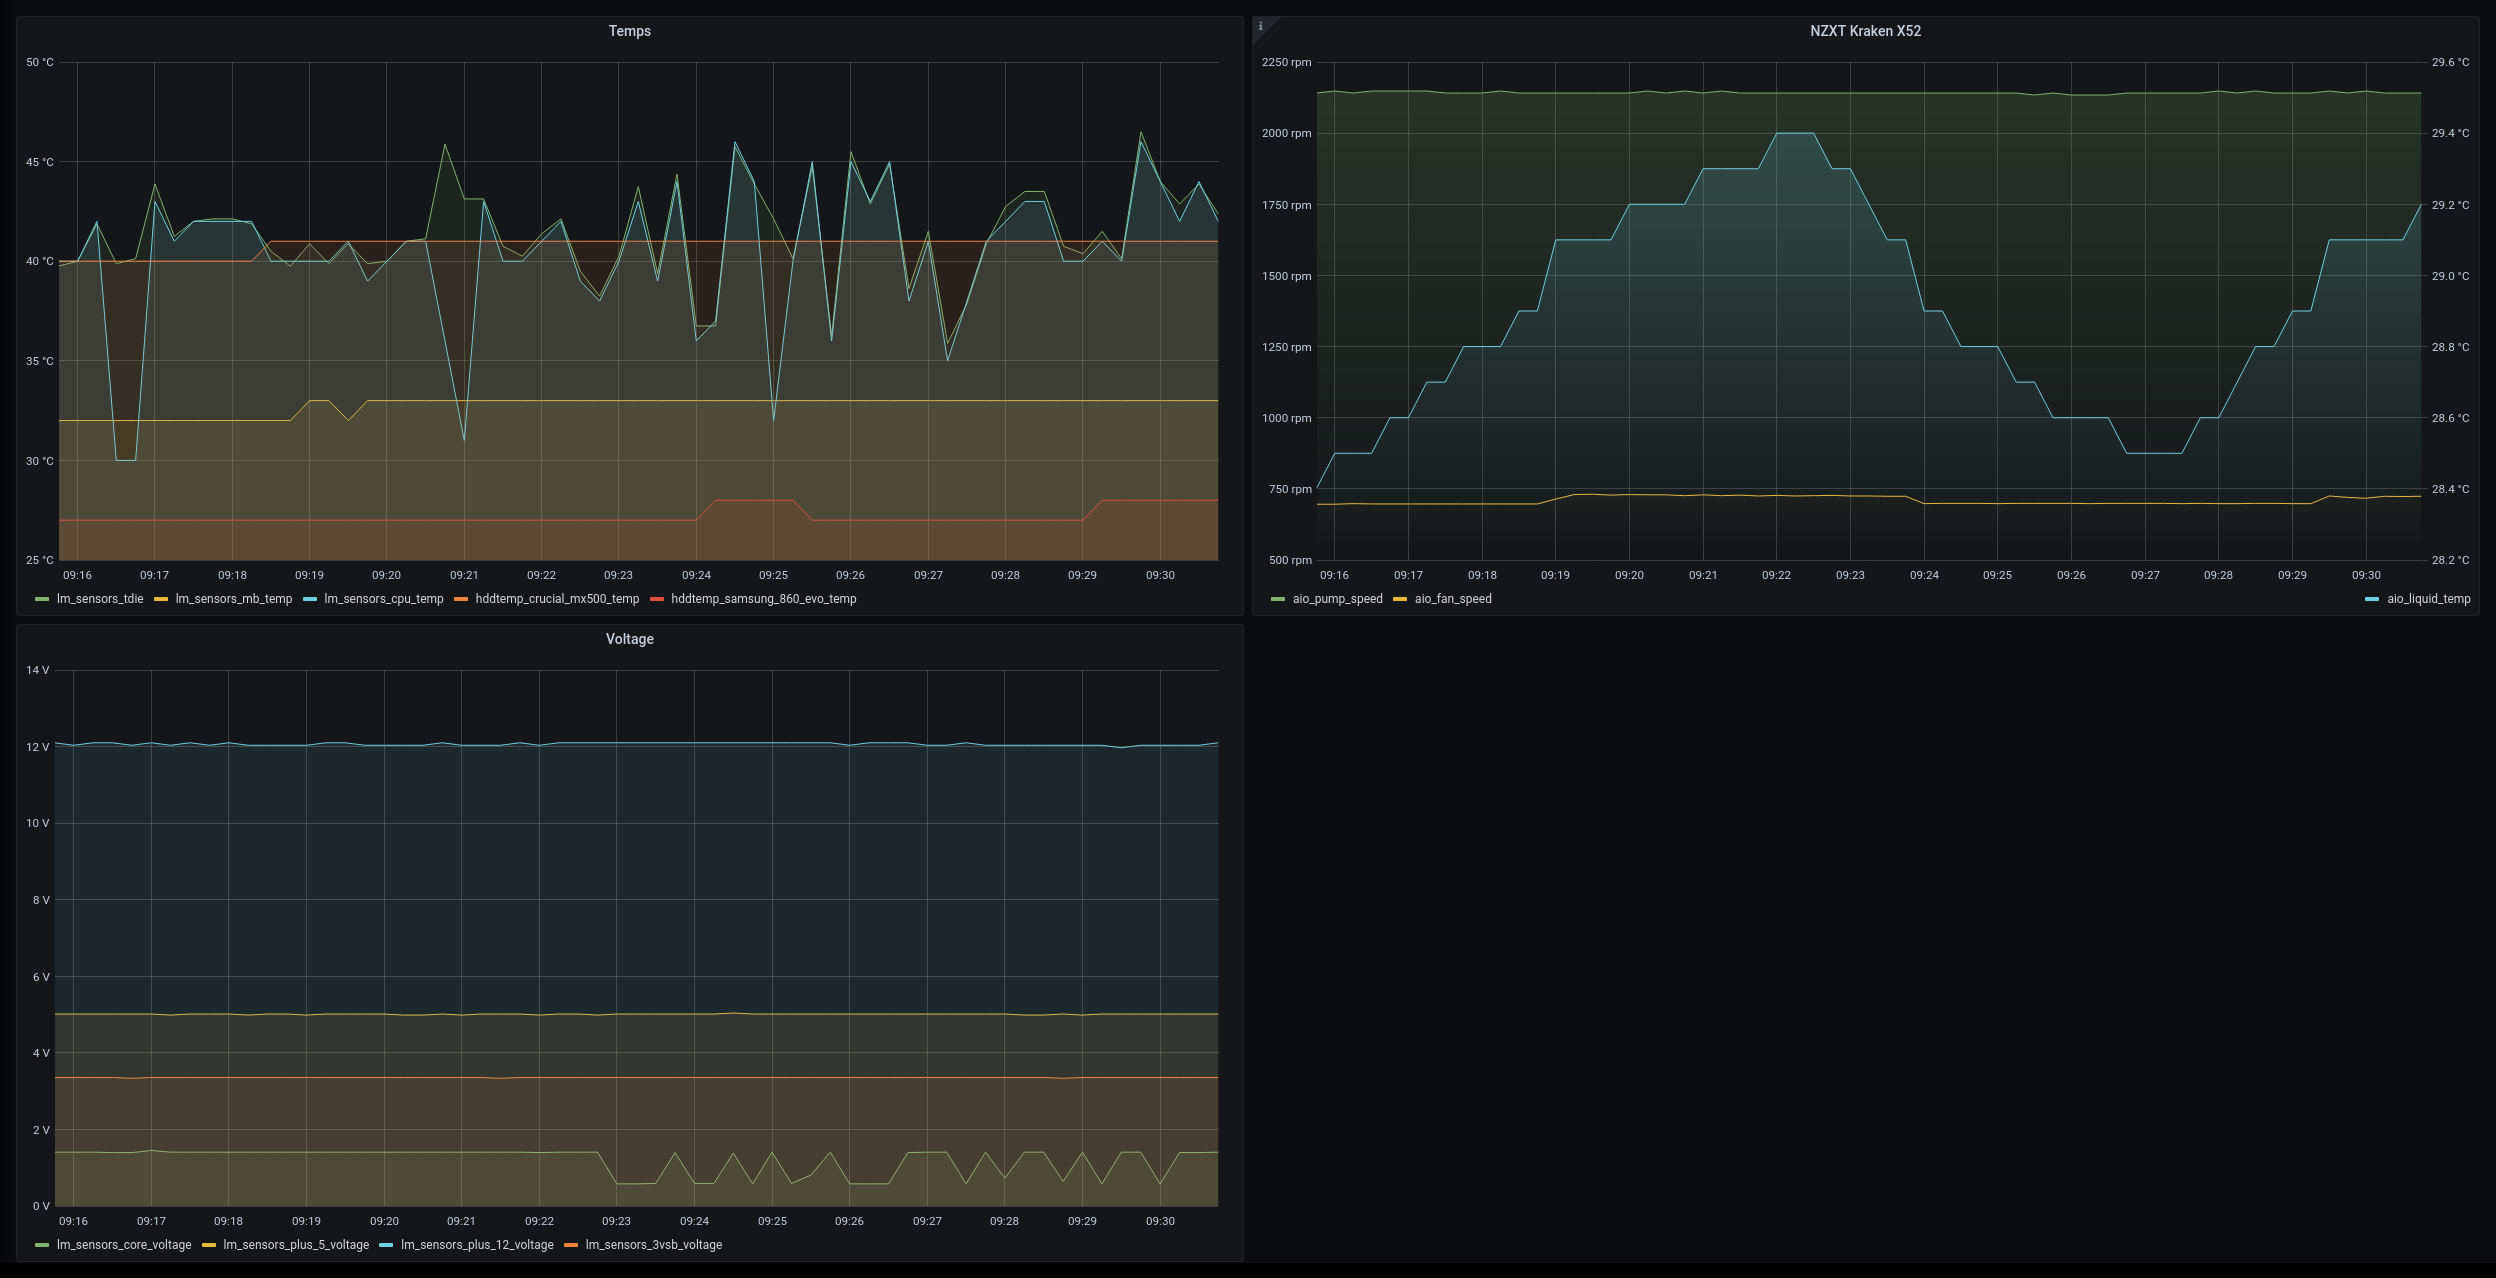
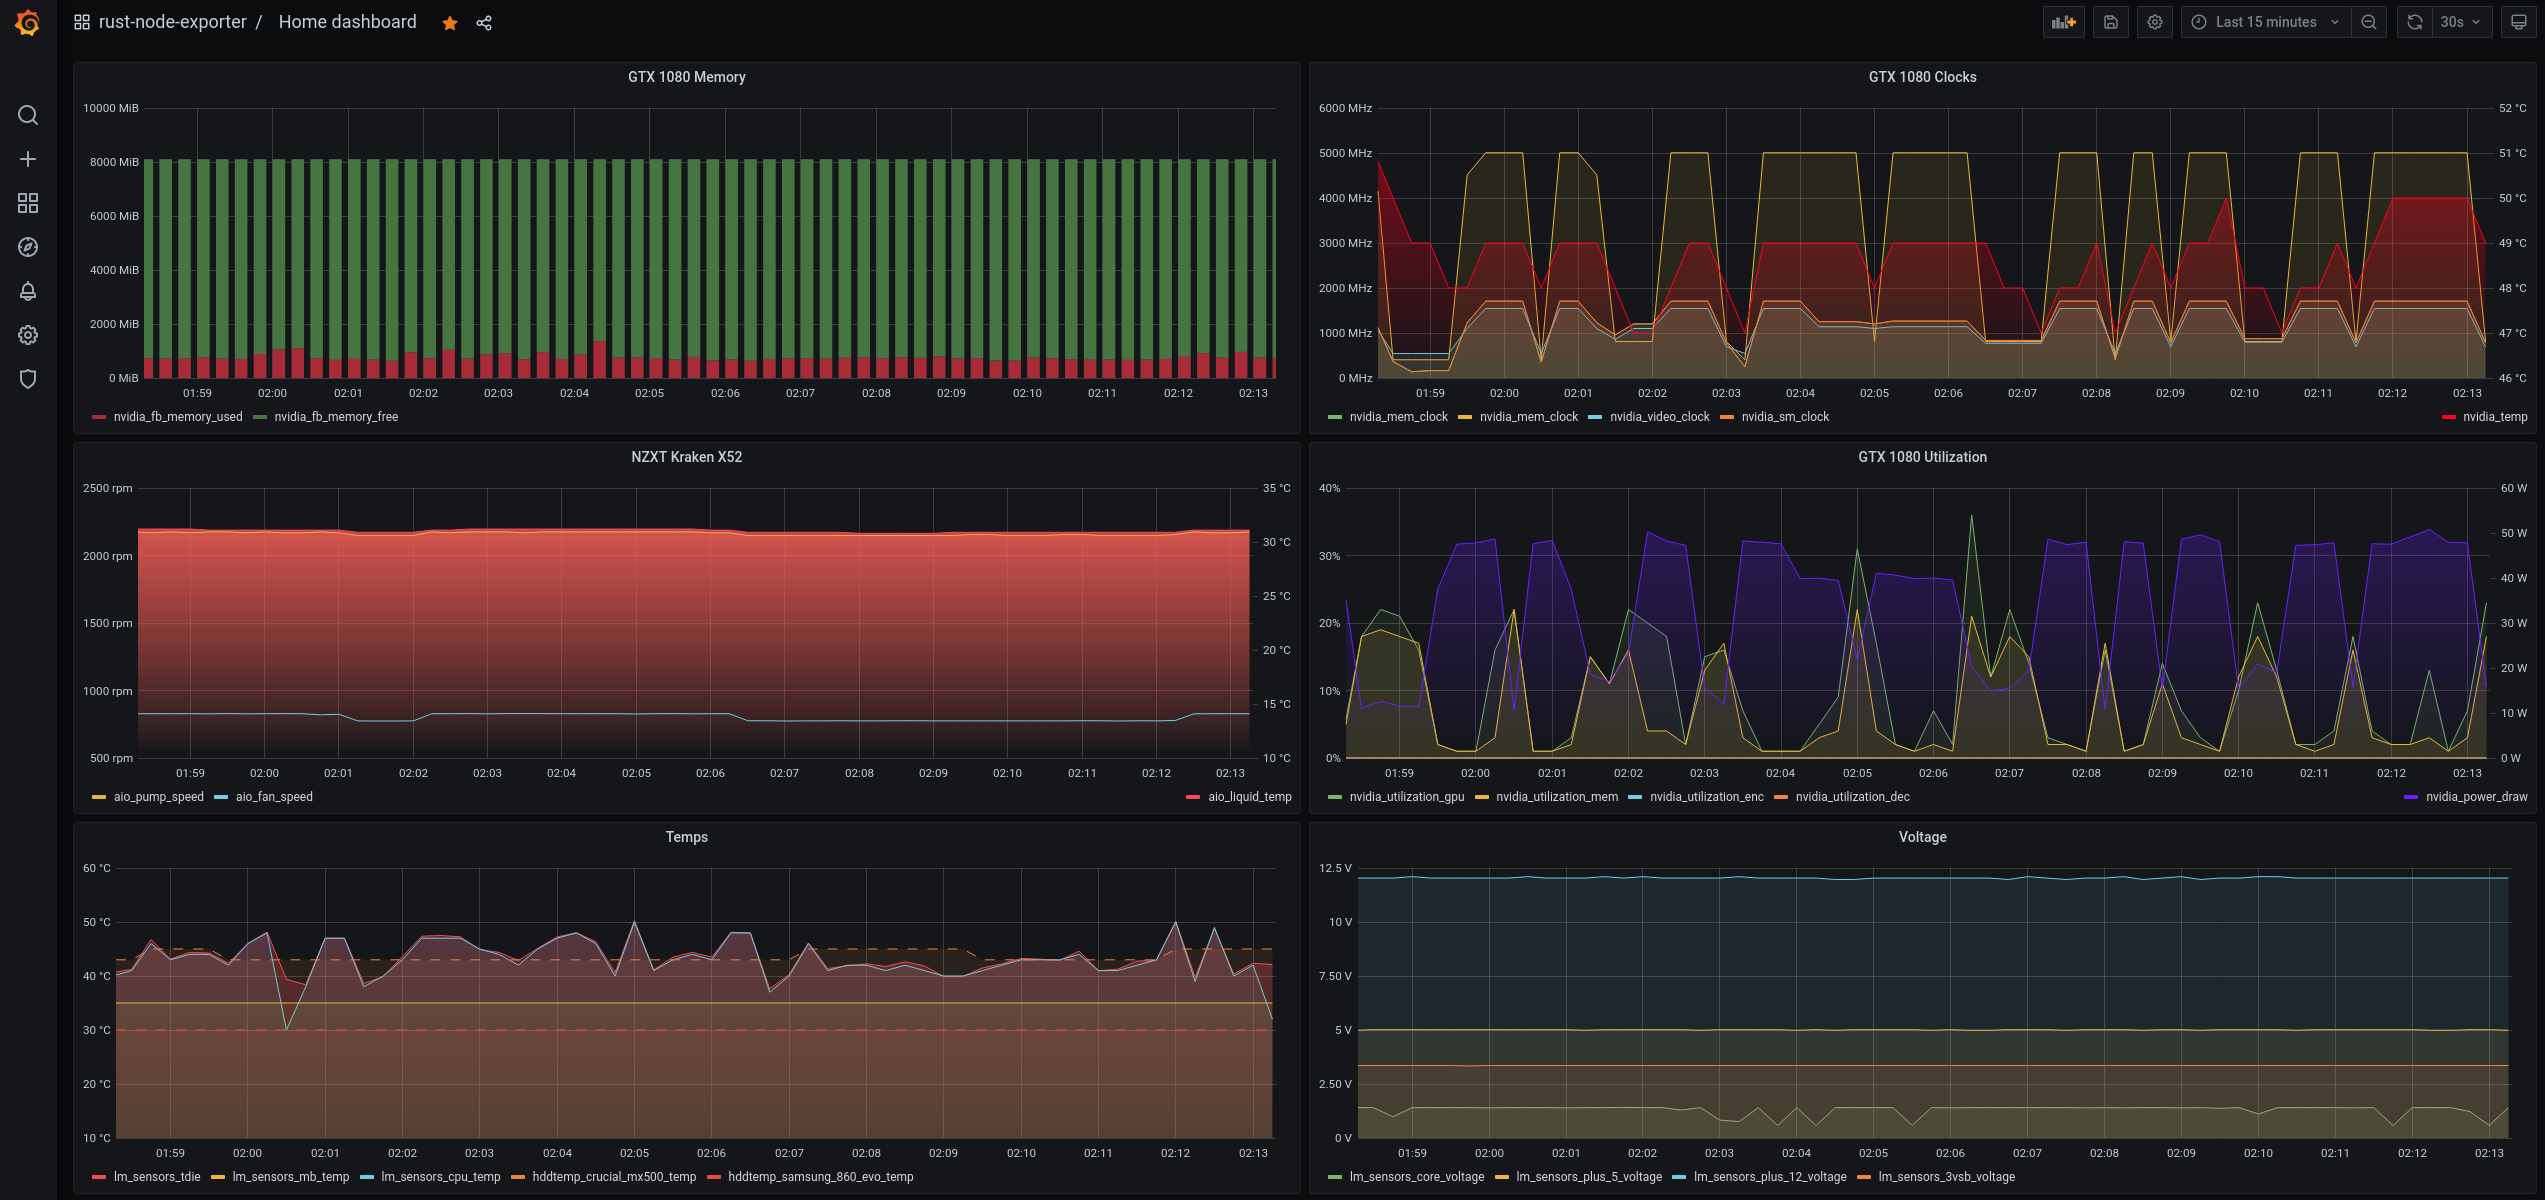
Add nvidia metrics

diff --git a/src/helper.rs b/src/helper.rs
@@ -4,6 +4,7 @@ use std::io::prelude::*;
 use std::net::TcpStream;
 use std::process::Command;
 use std::str;
+use xmltree::Element;
 
 pub fn get_aio_metrics() -> String {
     lazy_static! {
@@ -102,12 +103,12 @@ pub fn get_lm_sensor_metrics() -> String {
                 return result;
             }
             Err(e) => {
-                eprintln!("error parsing stdout {}", e);
+                eprintln!("error parsing lm_sensors stdout {}", e);
                 panic!()
             }
         },
         Err(e) => {
-            eprintln!("error running sensors {}", e);
+            eprintln!("error running lm_sensors {}", e);
             panic!()
         }
     }
@@ -139,5 +140,84 @@ pub fn get_hddtemp_metrics() -> String {
         )
     } else {
         panic!("Could not parse hddtemp output")
+    }
+}
+
+fn get_text_at_path(e: &Element, args: &[&str]) -> String {
+    let mut x = e;
+    for p in args {
+        x = x.get_child(*p).unwrap();
+    }
+
+    x.get_text().unwrap().split_whitespace().next().unwrap().to_owned()
+}
+
+
+pub fn get_nvidia_metrics() -> String {
+    match Command::new("nvidia-smi").arg("-q").arg("-x").output() {
+        Ok(output) => match str::from_utf8(&output.stdout) {
+            Ok(out) => {
+                let parsed = Element::parse(out.as_bytes()).unwrap();
+                let gpu = parsed.get_child("gpu").unwrap();
+
+                let gpu_temp = get_text_at_path(gpu, &["temperature", "gpu_temp"]);
+                let power_draw = get_text_at_path(gpu, &["power_readings", "power_draw"]);
+
+                let clocks = gpu.get_child("clocks").unwrap();
+                let graphics_clock = get_text_at_path(clocks, &["graphics_clock"]);
+                let sm_clock = get_text_at_path(clocks, &["sm_clock"]);
+                let mem_clock = get_text_at_path(clocks, &["mem_clock"]);
+                let video_clock = get_text_at_path(clocks, &["video_clock"]);
+
+
+                let fan_speed = get_text_at_path(gpu, &["fan_speed"]);
+
+
+                let fb_memory = gpu.get_child("fb_memory_usage").unwrap();
+                let fb_memory_total = get_text_at_path(fb_memory, &["total"]);
+                let fb_memory_used = get_text_at_path(fb_memory, &["used"]);
+                let fb_memory_free = get_text_at_path(fb_memory, &["free"]);
+
+                let bar1_memory = gpu.get_child("bar1_memory_usage").unwrap();
+                let bar1_memory_total = get_text_at_path(bar1_memory, &["total"]);
+                let bar1_memory_used = get_text_at_path(bar1_memory, &["used"]);
+                let bar1_memory_free = get_text_at_path(bar1_memory, &["free"]);
+
+                let utilization = gpu.get_child("utilization").unwrap();
+                let utilization_gpu = get_text_at_path(utilization, &["gpu_util"]);
+                let utilization_mem = get_text_at_path(utilization, &["memory_util"]);
+                let utilization_enc = get_text_at_path(utilization, &["encoder_util"]);
+                let utilization_dec = get_text_at_path(utilization, &["decoder_util"]);
+
+
+                let mut result = String::new();
+                result.push_str(&format!("\nnvidia_temp {}", gpu_temp));
+                result.push_str(&format!("\nnvidia_power_draw {}", power_draw));
+                result.push_str(&format!("\nnvidia_graphics_clock {}", graphics_clock));
+                result.push_str(&format!("\nnvidia_sm_clock {}", sm_clock));
+                result.push_str(&format!("\nnvidia_mem_clock {}", mem_clock));
+                result.push_str(&format!("\nnvidia_video_clock {}", video_clock));
+                result.push_str(&format!("\nnvidia_fan_speed {}", fan_speed));
+                result.push_str(&format!("\nnvidia_fb_memory_total {}", fb_memory_total));
+                result.push_str(&format!("\nnvidia_fb_memory_free {}", fb_memory_free));
+                result.push_str(&format!("\nnvidia_fb_memory_used {}", fb_memory_used));
+                result.push_str(&format!("\nnvidia_bar1_memory_total {}", bar1_memory_total));
+                result.push_str(&format!("\nnvidia_bar1_memory_free {}", bar1_memory_free));
+                result.push_str(&format!("\nnvidia_bar1_memory_used {}", bar1_memory_used));
+                result.push_str(&format!("\nnvidia_utilization_gpu {}", utilization_gpu));
+                result.push_str(&format!("\nnvidia_utilization_mem {}", utilization_mem));
+                result.push_str(&format!("\nnvidia_utilization_enc {}", utilization_enc));
+                result.push_str(&format!("\nnvidia_utilization_dec {}", utilization_dec));
+                result
+            }
+            Err(e) => {
+                eprintln!("error parsing nvidia-smi stdout {}", e);
+                panic!()
+            }
+        },
+        Err(e) => {
+            eprintln!("error running nvidia-smi {}", e);
+            panic!()
+        }
     }
 }

diff --git a/src/main.rs b/src/main.rs
@@ -31,6 +31,7 @@ fn handle_connection(mut stream: TcpStream) {
     let mut result = helper::get_aio_metrics();
     result.push_str(&helper::get_lm_sensor_metrics());
     result.push_str(&helper::get_hddtemp_metrics());
+    result.push_str(&helper::get_nvidia_metrics());
 
     let response = format!(
         "HTTP/1.1 200 OK\r\nContent-Length: {}\r\n\r\n{}",

diff --git a/README.md b/README.md
@@ -7,5 +7,6 @@ Currently it exposes:
   [liquidctl](https://github.com/liquidctl/liquidctl).
 * `lm_sensors` output with `asus-wmi-sensors` driver.
 * SSD temps using `hddtemp`
+* Nvidia metrics using `nvidia-smi -q`
 
 ![Prometheus UI screenshot](prometheus-screenshot.png?raw=true)
